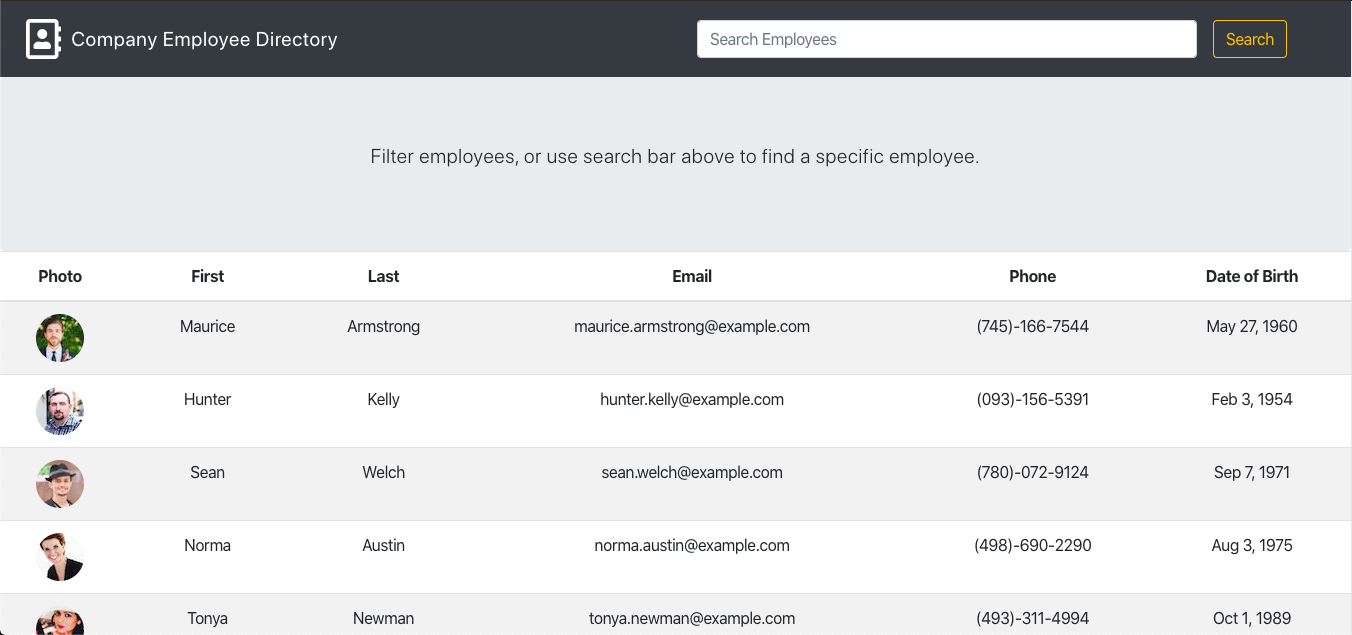
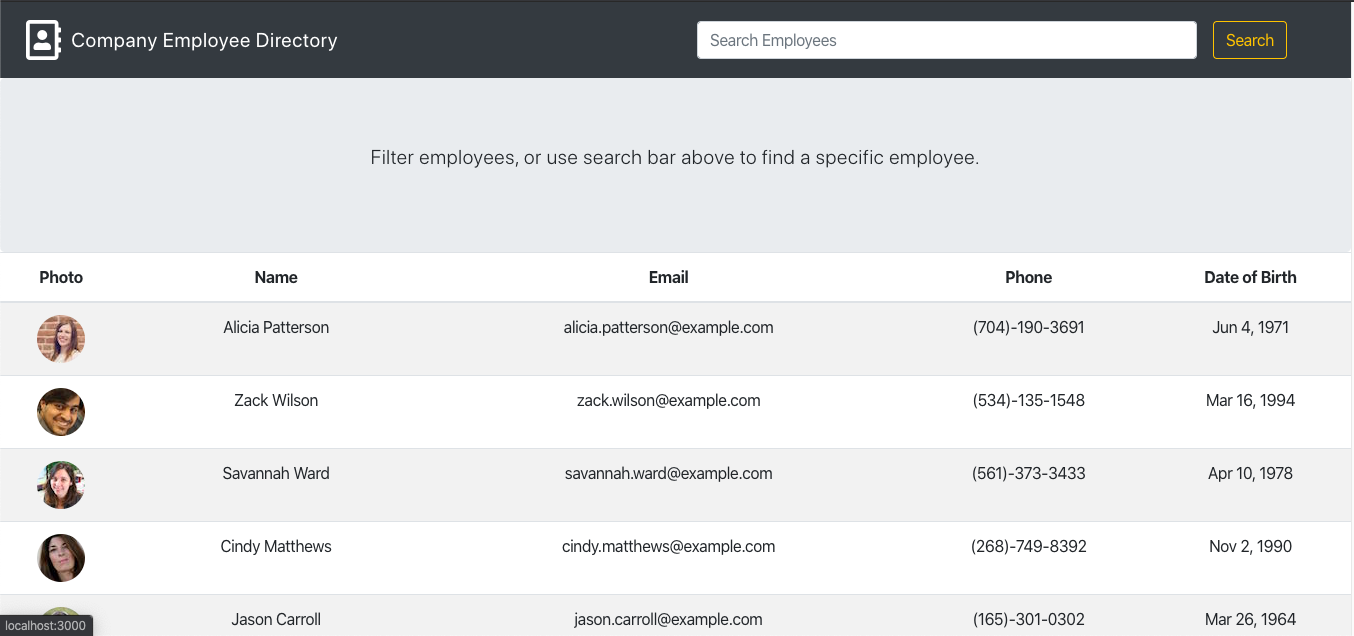
first and last name as one column. Updated readme

diff --git a/src/components/TableBody.js b/src/components/TableBody.js
@@ -16,8 +16,7 @@ return (
     return (
         <tr key={index}>
             <td> <img className="rounded-circle"src={person.picture.thumbnail} alt=""/> </td>
-            <td>{person.name.first} </td>
-            <td>{person.name.last} </td>
+            <td>{person.name.first} {person.name.last} </td>
             <td>{person.email} </td>
             <td>{person.phone} </td>
             <td>{dateFormat(person.dob.date, "mediumDate")} </td>

diff --git a/src/components/Table.js b/src/components/Table.js
@@ -7,8 +7,7 @@ return (
 <thead>
     <tr>
     <th scope="col">Photo</th>
-    <th scope="col">First</th>
-    <th scope="col">Last</th>
+    <th scope="col">Name</th>
     <th scope="col">Email</th>
     <th scope="col">Phone</th>
     <th scope="col">Date of Birth</th>
